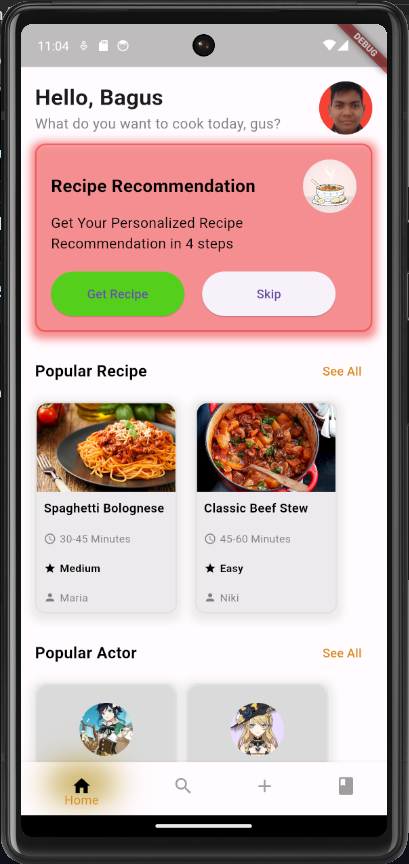
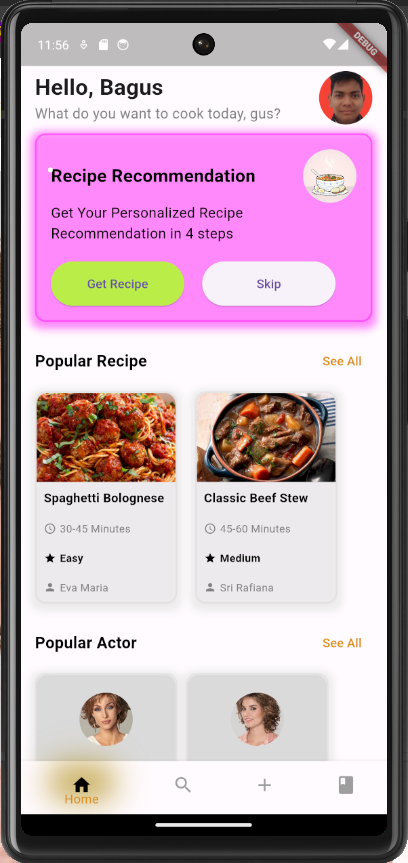
penggantian foto dan elemen

diff --git a/lib/main.dart b/lib/main.dart
@@ -57,12 +57,12 @@ class MyHomePage extends StatelessWidget {
                   decoration: BoxDecoration(
                     borderRadius: BorderRadius.circular(12),
                     border: Border.all(
-                      color: Color.fromARGB(255, 236, 33, 33).withOpacity(0.5),
+                      color: Color.fromARGB(255, 255, 22, 247).withOpacity(0.5),
                       width: 2,
                     ),
                     boxShadow: [
                       BoxShadow(
-                        color: Color.fromARGB(255, 236, 33, 33).withOpacity(0.5),
+                        color: Color.fromARGB(255, 255, 22, 247).withOpacity(0.5),
                         spreadRadius: 5,
                         blurRadius: 7,
                         offset: Offset(0, 3),
@@ -122,7 +122,7 @@ class MyHomePage extends StatelessWidget {
                             },
                             style: ElevatedButton.styleFrom(
                               minimumSize: Size(150, 50),
-                              primary: Color.fromARGB(255, 82, 215, 20),
+                              primary: Color.fromARGB(255, 192, 246, 69),
                             ),
                             child: Text('Get Recipe'),
                           ),
@@ -174,19 +174,19 @@ class MyHomePage extends StatelessWidget {
                   child: Row(
                     children: [
                       RecipeCard(
-                        imageUrl: 'https://cdn1-production-images-kly.akamaized.net/uBuE5OD3B9pUTVNJd81cB819z7Y=/0x194:5616x3359/800x450/filters:quality(75):strip_icc():format(webp)/kly-media-production/medias/3048436/original/030475400_1581499756-shutterstock_413580649.jpg',
+                        imageUrl: 'https://i.pinimg.com/564x/45/6c/b3/456cb3b8e683d3c144e49623a882a222.jpg',
                         dishName: 'Spaghetti Bolognese',
                         time: '30-45 Minutes',
-                        difficulty: 'Medium',
-                        chefName: 'Maria',
+                        difficulty: 'Easy',
+                        chefName: 'Eva Maria',
                       ),
                       SizedBox(width: 20),
                       RecipeCard(
-                        imageUrl: 'https://img.taste.com.au/d4JNfJUH/taste/2019/07/classic-beef-stew-151457-2.jpg',
+                        imageUrl: 'https://i.pinimg.com/564x/2f/8f/de/2f8fde9cb523601f0517f2d222cb91ab.jpg',
                         dishName: 'Classic Beef Stew',
                         time: '45-60 Minutes',
-                        difficulty: 'Easy',
-                        chefName: 'Niki',
+                        difficulty: 'Medium',
+                        chefName: 'Sri Rafiana',
                       ),
                     ],
                   ),
@@ -224,19 +224,19 @@ class MyHomePage extends StatelessWidget {
                   child: Row(
                     children: [
                       AvatarRecipeCard(
-                        imageUrl: 'https://img.wattpad.com/cover/337063381-256-k969823.jpg',
+                        imageUrl: 'https://i.pinimg.com/564x/0c/81/5e/0c815ed9c541404d461659f1a013755c.jpg',
                         chefName: 'I can Tooth',
                         time: '124',
                         difficulty: '41391',
-                        dishName: 'John',
+                        dishName: 'Eva Maria',
                       ),
                       SizedBox(width: 10),
                       AvatarRecipeCard(
-                        imageUrl: 'https://i2.wp.com/genshinbuilds.aipurrjects.com/genshin/characters/navia/image.png?strip=all&quality=100',
+                        imageUrl: 'https://i.pinimg.com/564x/51/a2/66/51a2667e7aaf0354b285f3473da443c1.jpg',
                         chefName: 'You Pink Sun',
                         time: '98',
                         difficulty: '7323',
-                        dishName: 'Emily',
+                        dishName: 'Sri Rafiana',
                       ),
                     ],
                   ),
